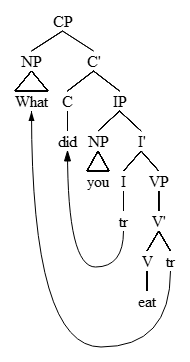
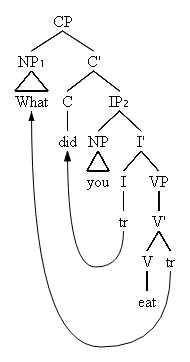
Subscript info in help file with picture.

diff --git a/help.html b/help.html
@@ -16,9 +16,9 @@
 		<img src="images/aliceandbob.png" border="1" style="margin:5" /><br /><br />
 		<font face="monospace">[S[NP[N Alice]][VP[V is][NP[N'[N a student][PP* of physics]]]]]</font><br />
 		<img src="images/studentphysics.png" border="1" style="margin:5" /><br />
-		<h3>Movement Lines:</h3>
-		To show movement, mark the head of the movement with an underscore followed by a label, and the tail with the label between angled brackets. Any kind of constituent can be a head, but only leaves can be tails. The head constituent can not be an ancestor of the tail. Labels can only be strings of letters and numbers with no spaces.<br /><br />
-		<font face="monospace">[CP [NP* What]_a [C' [C did]_b [IP [NP* you] [I' [I tr&lt;b&gt;] [VP [V' [V eat] tr&lt;a&gt;]]]]]]</font><br />
+		<h3>Movement Lines and Subscripts:</h3>
+		To show movement, mark the head of the movement with an underscore followed by a label, and the tail with the label between angled brackets. Any kind of constituent can be a head, but only leaves can be tails. The head constituent can not be an ancestor of the tail. Labels can only be strings of letters and numbers with no spaces. If your label consists of only numbers, it will show up as a subscript after the category name.<br /><br />
+		<font face="monospace">[CP [NP* What]_1 [C' [C did]_b [IP [NP* you] [I' [I tr&lt;b&gt;] [VP [V' [V eat] tr&lt;1&gt;]]]]_2]]</font><br />
 		<img src="images/movement.png" border="1" style="margin:5"/><br /><br />
 	</body>
 </html>
